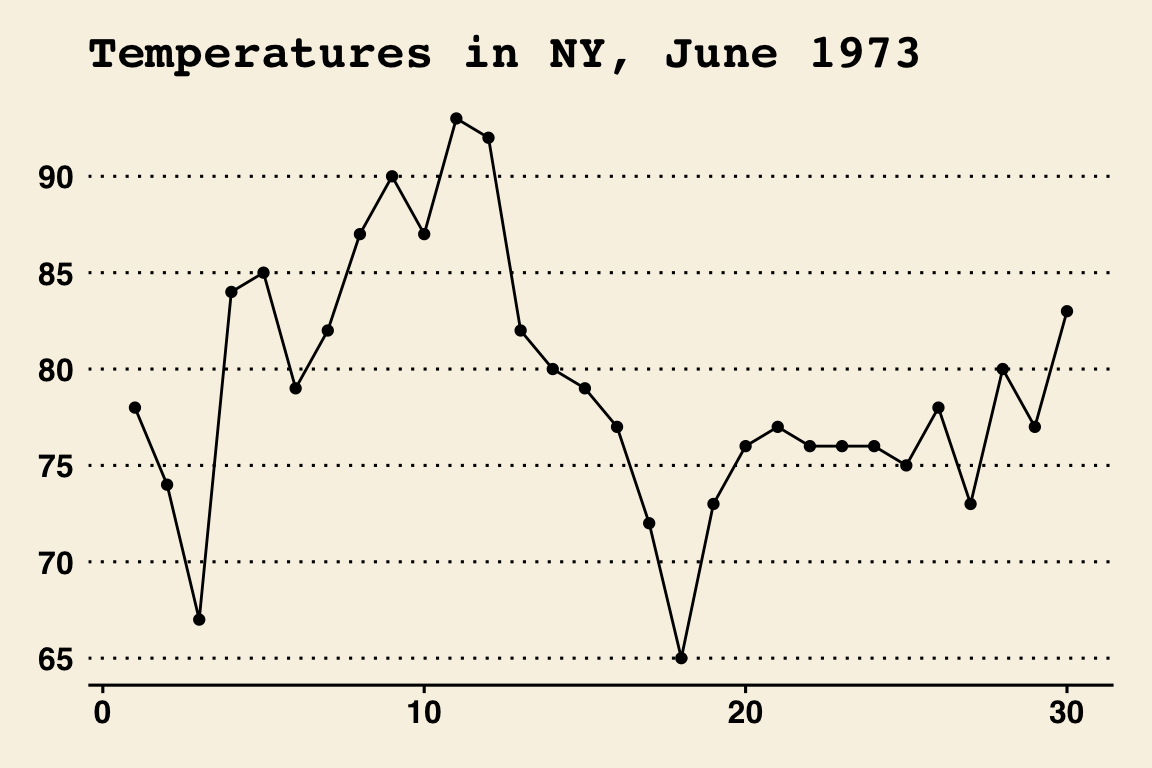
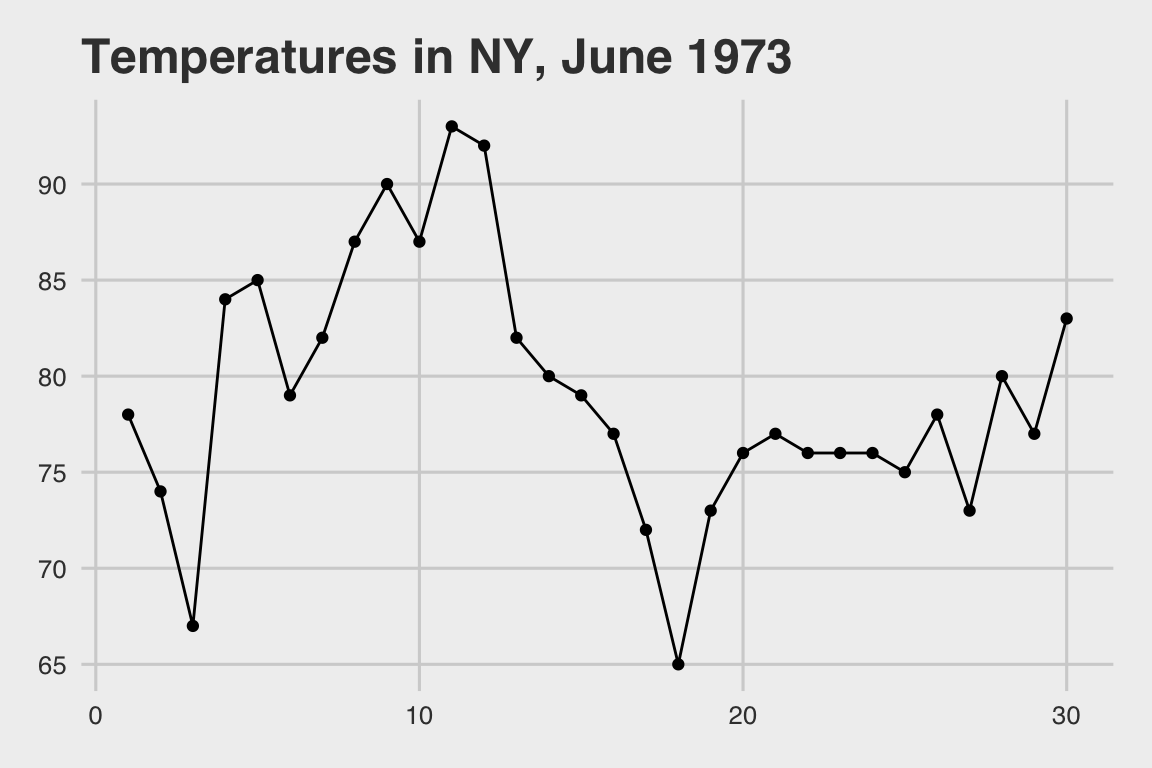
Changed example themed plot to FiveThirtyEight theme!

Changed region(s): [[0.0312, 0.125, 0.9688, 0.9688], [0.0625, 0.0312, 0.8125, 0.125], [0.0938, 0.5312, 0.125, 0.5625]]

diff --git a/docs/day-1.html b/docs/day-1.html
@@ -454,7 +454,7 @@ june_plot &lt;- ggplot(data = june_weather, aes(x = Day, y =  Temp)) +
   labs(title = &quot;Temperatures in NY, June 1973&quot;,
        x = &quot;Day&quot;,
        y = &quot;Temperature (°F)&quot;) +
-  theme_wsj() +
+  theme_fivethirtyeight() +
   theme(plot.title = element_text(size = 18))
 
 june_plot</code></pre>
@@ -465,7 +465,7 @@ june_plot</code></pre>
 <p>You’ll need to dig into the <code>ggplot2</code> documentation, as well as the <code>storms</code> dataset. I recommend starting by looking at <code>labs()</code> and <code>theme()</code>, though we’ll cover themes more next week.</p>
 <p>Graph to copy:</p>
 <p><img src="day-1_files/figure-html/Wind_Graph-1.png" width="576" /></p>
-<p>I’ll reveal the code next week!</p>
+<p>I encourage you to Slack me throughout the week as you get stuck. I’ll reveal the code next week!</p>
 </div>
 </div>
 
